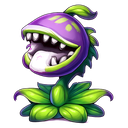
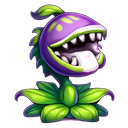
fix: orient image2 plants toward zombies

diff --git a/tests/image2_asset_manifest_test.py b/tests/image2_asset_manifest_test.py
@@ -62,10 +62,19 @@ def main() -> int:
     assert_true(sample["out"].endswith("-source.png"), "manifest source outputs should use the -source.png suffix")
     assert_true("#ff00ff" in sample["prompt"], "manifest prompts should use a removable chroma-key background")
     assert_true("no text" in sample["constraints"].lower(), "manifest prompts should forbid in-image text")
+    assert_true("facing right" in sample["prompt"].lower(), "plant prompts should explicitly require right-facing sprites")
+    assert_true("facing right" in sample["composition"].lower(), "plant composition should explicitly require right-facing sprites")
 
     plant_jobs = run_manifest("--category", "plants", "--limit", "2", "--offset", "1")
     assert_true(len(plant_jobs) == 2, "category/limit/offset should select a small deterministic batch")
     assert_true(all(job["category"] == "plants" for job in plant_jobs), "category filter should return only plants")
+    assert_true(all("facing right" in job["prompt"].lower() for job in plant_jobs), "all generated plant prompts should face right")
+
+    zombie_jobs = run_manifest("--category", "zombies", "--limit", "2")
+    assert_true(len(zombie_jobs) == 2, "zombie category filter should select a small deterministic batch")
+    assert_true(all(job["category"] == "zombies" for job in zombie_jobs), "zombie category filter should return only zombies")
+    assert_true(all("facing left" in job["prompt"].lower() for job in zombie_jobs), "all generated zombie prompts should face left")
+    assert_true(all("facing left" in job["composition"].lower() for job in zombie_jobs), "zombie composition should explicitly require left-facing sprites")
 
     selected_jobs = run_manifest("--category", "projectiles", "--kinds", "pea,boomerang")
     assert_true({job["kind"] for job in selected_jobs} == {"pea", "boomerang"}, "kinds filter should select exact asset kinds")

diff --git a/scripts/tools/generate_image2_asset_manifest.py b/scripts/tools/generate_image2_asset_manifest.py
@@ -173,11 +173,11 @@ def _title_from_kind(kind: str) -> str:
 def _subject(category: str, kind: str, display_name: str) -> str:
     title = _title_from_kind(kind)
     if category == "plants":
-        return f"{display_name} plant, {title}, cute botanical tower defense unit"
+        return f"{display_name} plant, {title}, cute botanical tower defense unit, facing right toward the zombies"
     if category == "zombies":
         if kind.endswith("_boss"):
-            return f"{display_name} boss zombie, {title}, large enemy unit"
-        return f"{display_name} zombie, {title}, readable enemy unit"
+            return f"{display_name} boss zombie, {title}, large enemy unit, facing left toward the plants"
+        return f"{display_name} zombie, {title}, readable enemy unit, facing left toward the plants"
     if category == "projectiles":
         return f"{title} projectile, single attack sprite moving to the right"
     return f"{title} combat visual effect burst, single reusable VFX sprite"
@@ -190,7 +190,7 @@ def _composition(category: str) -> str:
         return "single centered VFX element with generous padding, usable as a transparent overlay"
     if category == "zombies":
         return "single centered full-body enemy sprite with generous padding, facing left toward the plants"
-    return "single centered full-body plant sprite with generous padding, readable at small size"
+    return "single centered full-body plant sprite with generous padding, facing right toward the zombies, readable at small size"
 
 
 def _prompt(category: str, kind: str, display_name: str) -> str:
